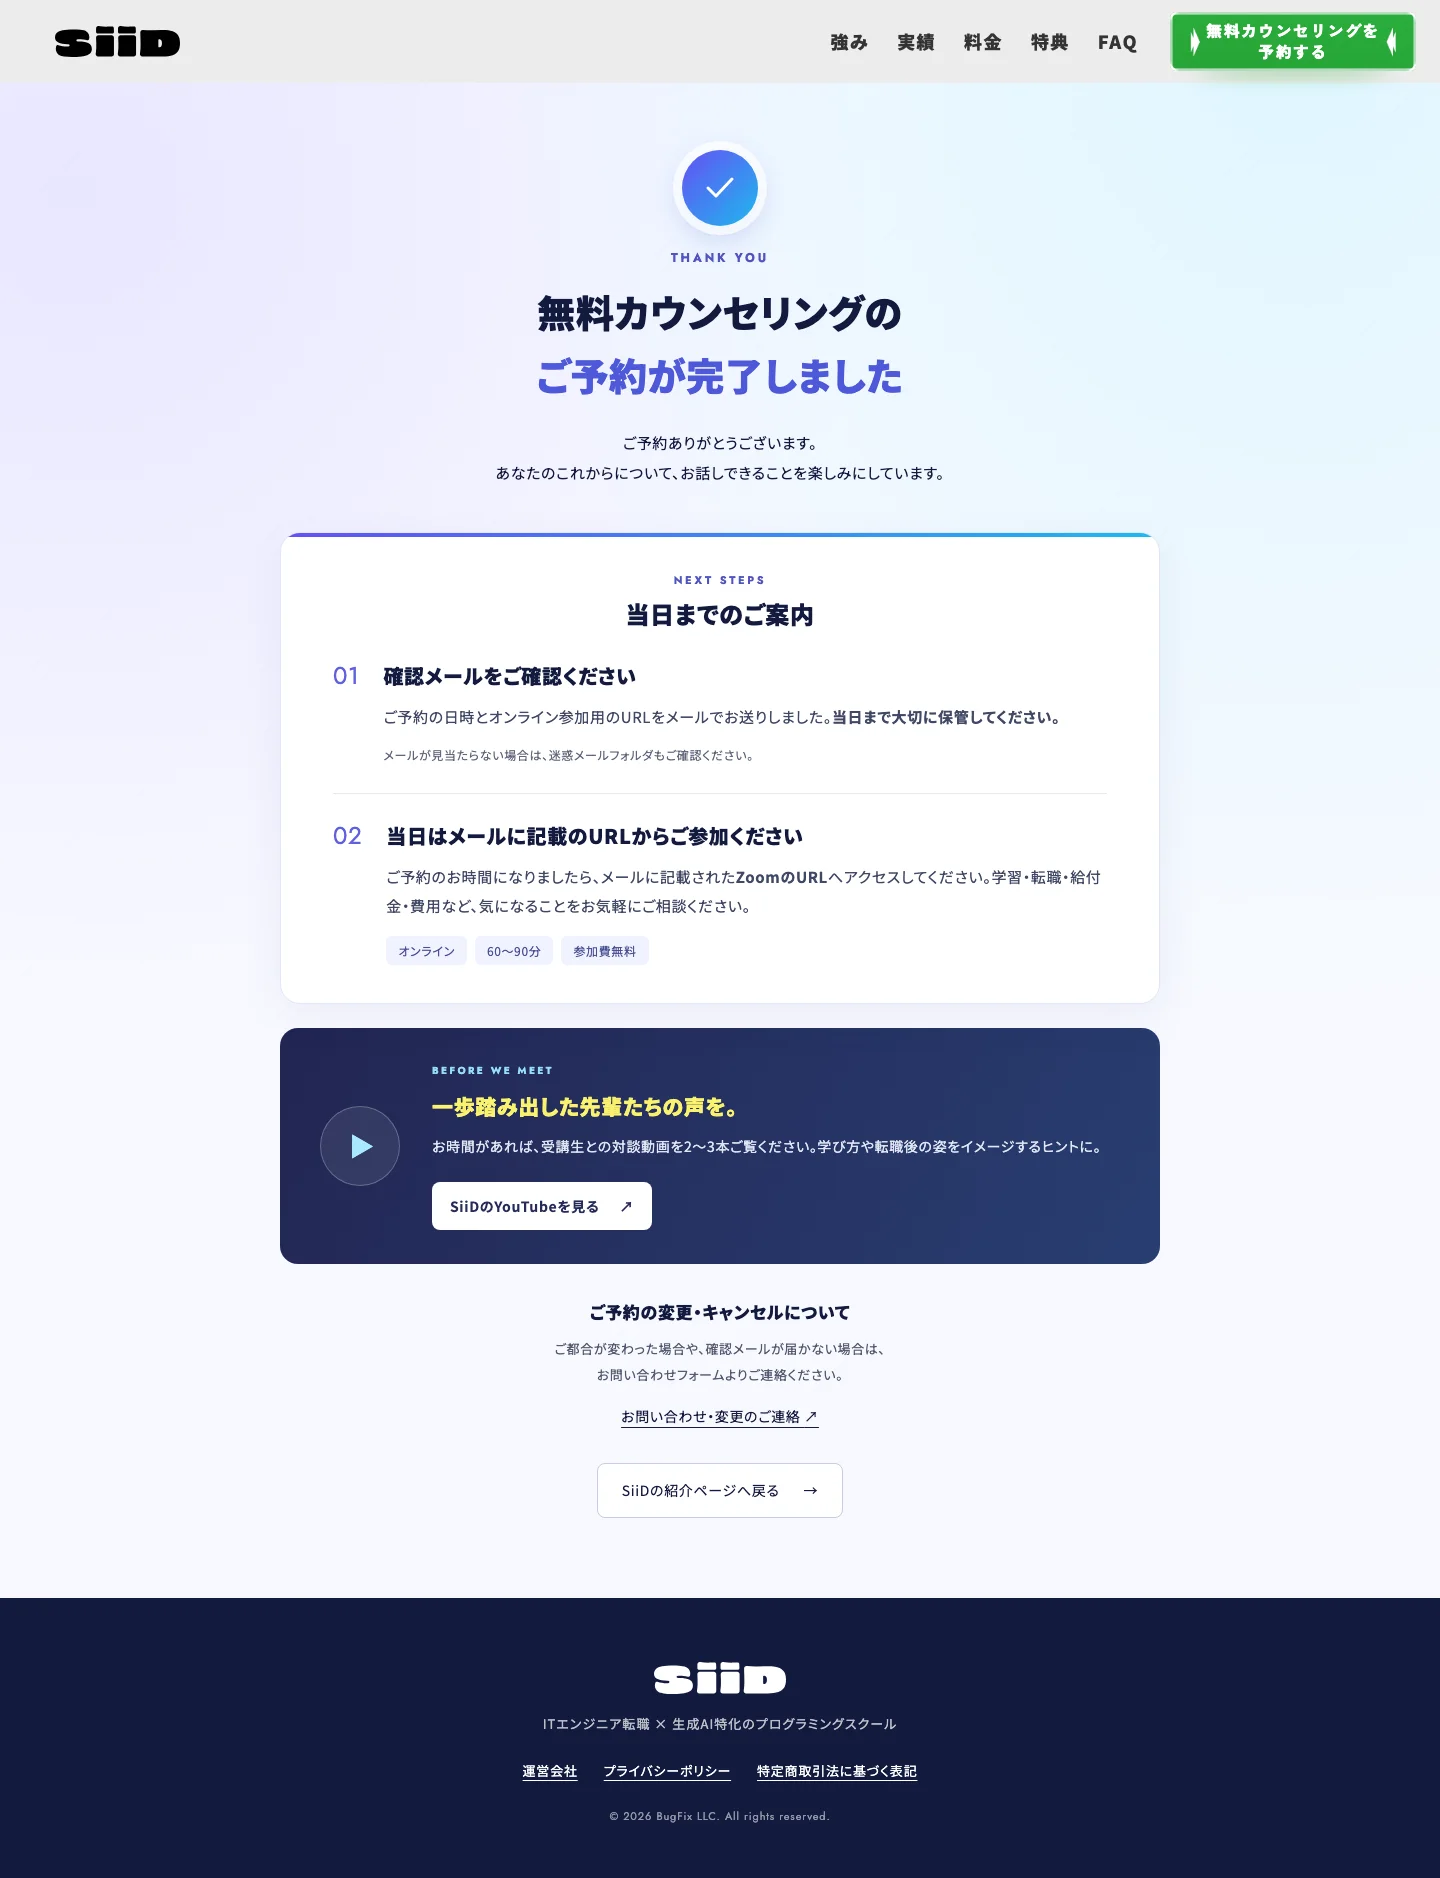
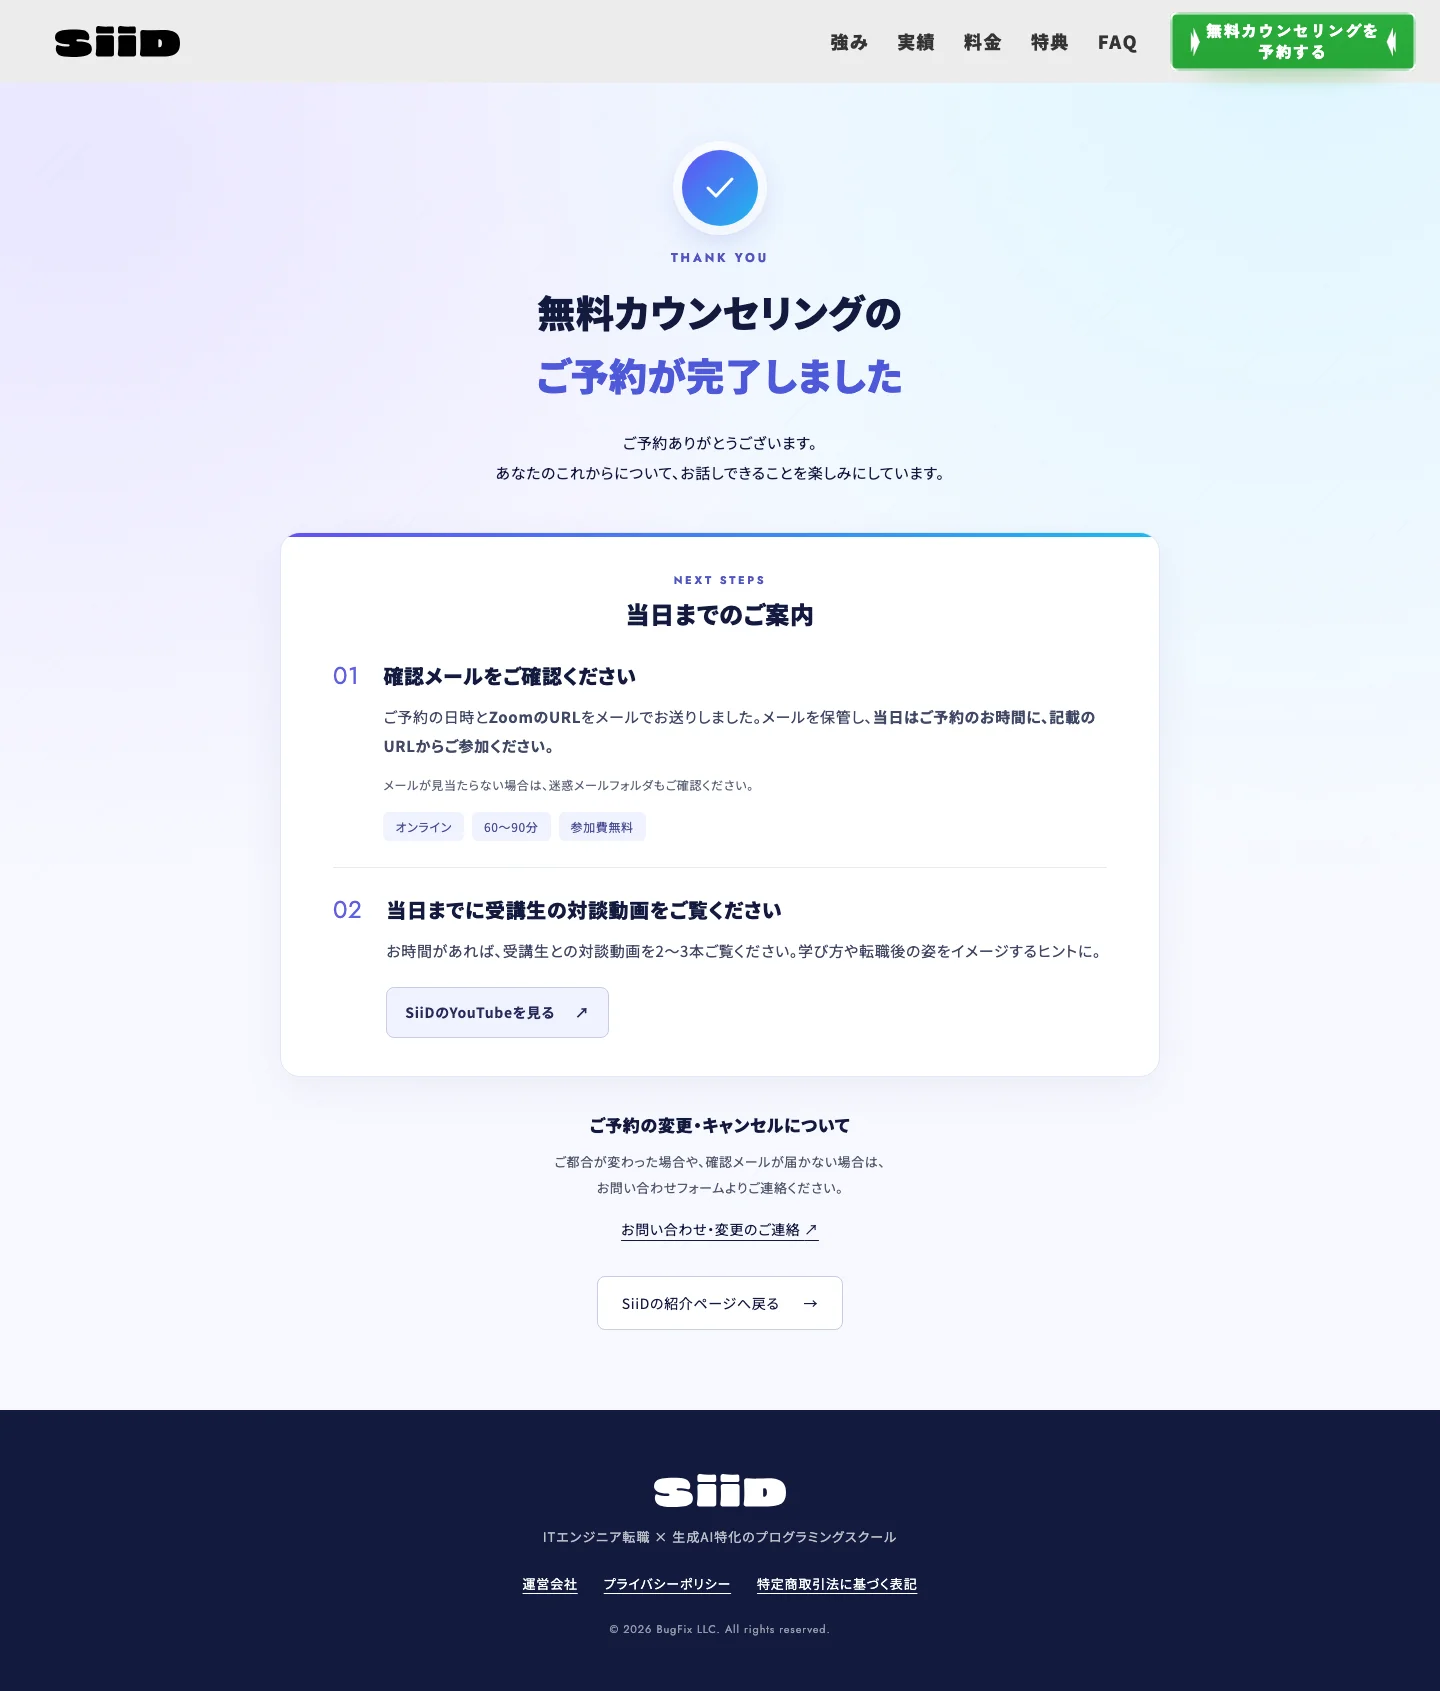
fix: 予約完了後の案内を2項目に整理する

diff --git a/src/app/(Lp)/lp-2/complete/page.tsx b/src/app/(Lp)/lp-2/complete/page.tsx
@@ -51,28 +51,19 @@ export default function Complete() {
               <li>
                 <span className={styles.Complete__Number} aria-hidden="true">01</span>
                 <div><h3>確認メールをご確認ください</h3>
-                  <p>ご予約の日時とオンライン参加用のURLをメールでお送りしました。<strong>当日まで大切に保管してください。</strong></p>
+                  <p>ご予約の日時と<strong>ZoomのURL</strong>をメールでお送りしました。メールを保管し、<strong>当日はご予約のお時間に、記載のURLからご参加ください。</strong></p>
                   <p className={styles.Complete__Note}>メールが見当たらない場合は、迷惑メールフォルダもご確認ください。</p>
+                  <ul className={styles.Complete__Tags}><li>オンライン</li><li>60〜90分</li><li>参加費無料</li></ul>
                 </div>
               </li>
               <li>
                 <span className={styles.Complete__Number} aria-hidden="true">02</span>
-                <div><h3>当日はメールに記載のURLからご参加ください</h3>
-                  <p>ご予約のお時間になりましたら、メールに記載された<strong>ZoomのURL</strong>へアクセスしてください。学習・転職・給付金・費用など、気になることをお気軽にご相談ください。</p>
-                  <ul className={styles.Complete__Tags}><li>オンライン</li><li>60〜90分</li><li>参加費無料</li></ul>
+                <div><h3>当日までに受講生の対談動画をご覧ください</h3>
+                  <p>お時間があれば、受講生との対談動画を2〜3本ご覧ください。学び方や転職後の姿をイメージするヒントに。</p>
+                  <a className={styles.Complete__VideoLink} href="https://www.youtube.com/@programming-siid" target="_blank" rel="noopener noreferrer">SiiDのYouTubeを見る <span aria-hidden="true">↗</span><span className={baseStyles.srOnly}>（新しいタブで開きます）</span></a>
                 </div>
               </li>
             </ol>
-          </section>
-
-          <section className={styles.Complete__Video} aria-labelledby="video-title">
-            <div className={styles.Complete__Play} aria-hidden="true">▶</div>
-            <div>
-              <p className={styles.Complete__Eyebrow}>BEFORE WE MEET</p>
-              <h2 id="video-title">一歩踏み出した先輩たちの声を。</h2>
-              <p>お時間があれば、受講生との対談動画を2〜3本ご覧ください。学び方や転職後の姿をイメージするヒントに。</p>
-              <a className={styles.Complete__VideoLink} href="https://www.youtube.com/@programming-siid" target="_blank" rel="noopener noreferrer">SiiDのYouTubeを見る <span aria-hidden="true">↗</span><span className={baseStyles.srOnly}>（新しいタブで開きます）</span></a>
-            </div>
           </section>
 
           <section className={styles.Complete__Help} aria-labelledby="help-title">

diff --git a/src/app/(Lp)/lp-2/complete/Complete.module.css b/src/app/(Lp)/lp-2/complete/Complete.module.css
@@ -58,17 +58,9 @@
 .Complete__Steps .Complete__Note { font-size: 12px; margin-top: 12px; color: #60677b; }
 .Complete__Tags { display: flex; flex-wrap: wrap; gap: 8px; margin-top: 16px; }
 .Complete__Tags li { padding: 4px 12px; border-radius: 6px; background: #f0f2ff; color: #485192; font-size: 12px; }
-.Complete__Video {
-  display: flex; gap: 24px; padding: 30px 24px; margin-top: 24px;
-  border-radius: 18px; color: white; background: linear-gradient(120deg, #222552, #293e72);
-}
-.Complete__Video .Complete__Eyebrow { color: #97dff7; font-size: 10px; }
-.Complete__Video h2 { color: #faf26e; font-size: 21px; margin-bottom: 12px; }
-.Complete__Video p:not(.Complete__Eyebrow) { font-size: 14px; line-height: 1.9; color: #e1e5f3; }
-.Complete__Play { display: none; }
 .Complete__VideoLink {
   display: inline-flex; align-items: center; gap: 20px; margin-top: 22px;
-  padding: 12px 18px; background: white; color: #242b58; border-radius: 8px; font-size: 14px; font-weight: 700;
+  padding: 12px 18px; background: #f0f2ff; border: 1px solid #c8cce3; color: #242b58; border-radius: 8px; font-size: 14px; font-weight: 700;
 }
 .Complete__Help { text-align: center; margin-top: 36px; }
 .Complete__Help h2 { font-size: 17px; margin-bottom: 12px; }
@@ -91,11 +83,5 @@
   .Complete__Number { position: static; }
   .Complete__Steps h3 { padding-left: 0; font-size: 20px; }
   .Complete__Steps p { font-size: 15px; }
-  .Complete__Video { padding: 34px 40px; align-items: center; gap: 32px; }
-  .Complete__Play {
-    display: grid; place-items: center; flex-shrink: 0; width: 80px; height: 80px;
-    padding-left: 4px; border-radius: 50%; background: rgb(255 255 255 / 8%);
-    border: 1px solid rgb(255 255 255 / 25%); font-size: 25px; color: #a9e9ff;
-  }
   .Complete__PcBreak { display: initial; }
 }

diff --git a/docs/reviews/69/README.md b/docs/reviews/69/README.md
@@ -28,3 +28,7 @@ Cookieバナーの拒否ボタンを押して本文を撮影。LPから保存済
 ## 独立レビュー
 
 別担当によるコード・4幅の画像レビューで合格。PC案内見出しの不要な左paddingを修正し、番号と本文の位置を再確認した。新規の導線・メタデータ・画面崩れの指摘なし。
+
+## 追加フィードバック対応
+
+「当日までのご案内」の01に確認メールと当日のZoom参加方法を統合。別セクションだった受講生対談動画とボタンを同じカードの02へ移動した。lint・typecheck・build成功。1440 / 839 / 390 / 319pxの表示を再確認し、画像を更新。独立コードレビューでも追加指摘なし。
